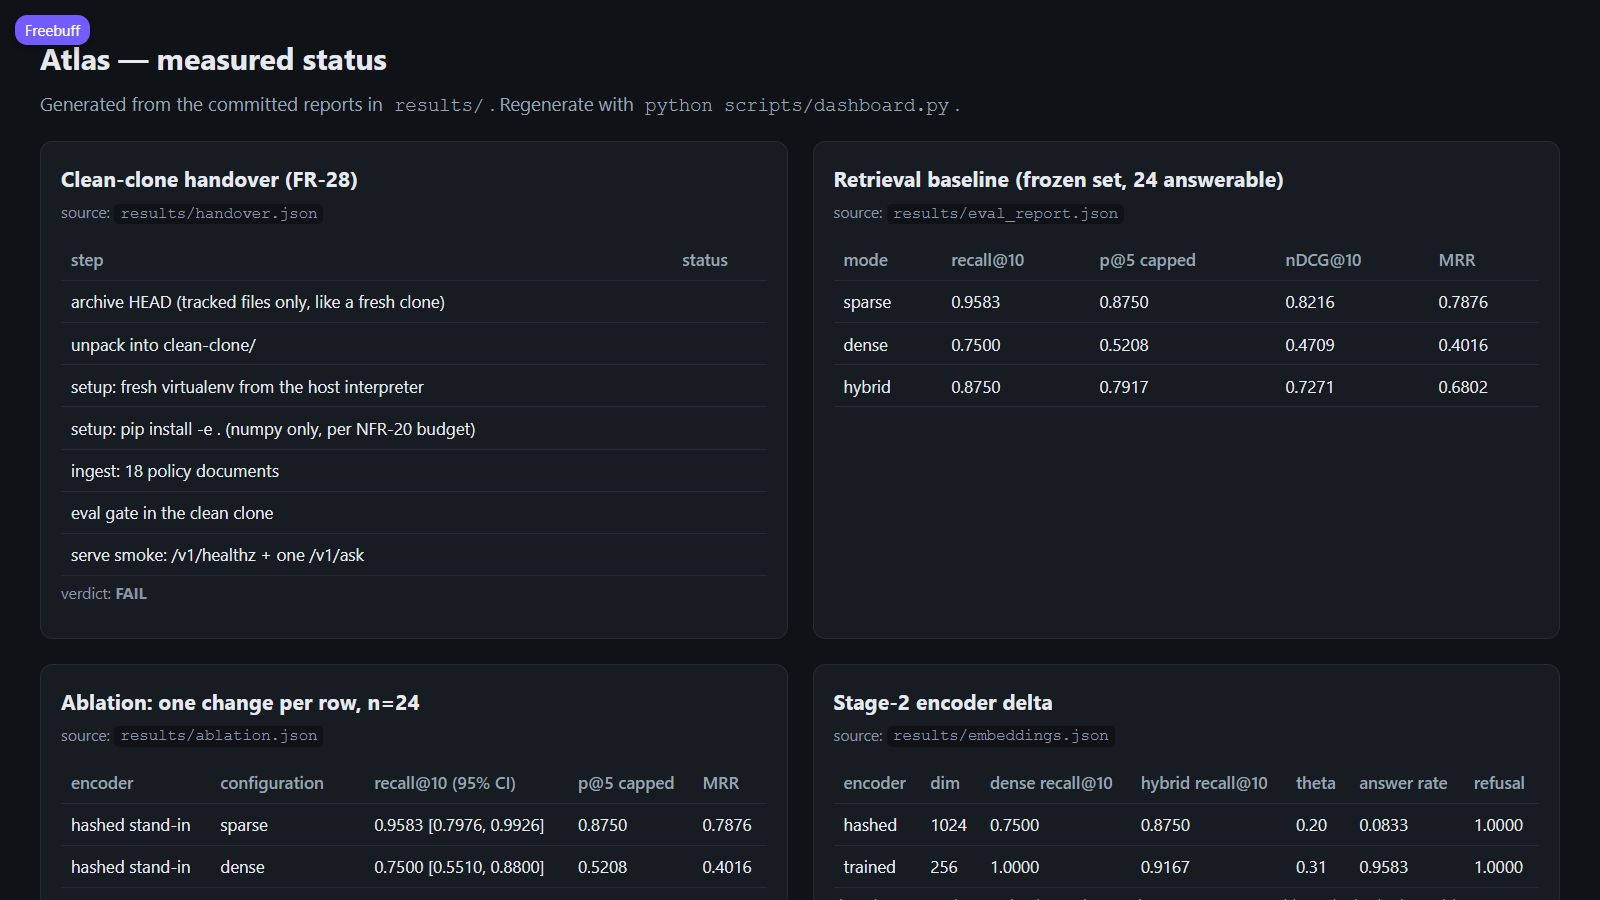
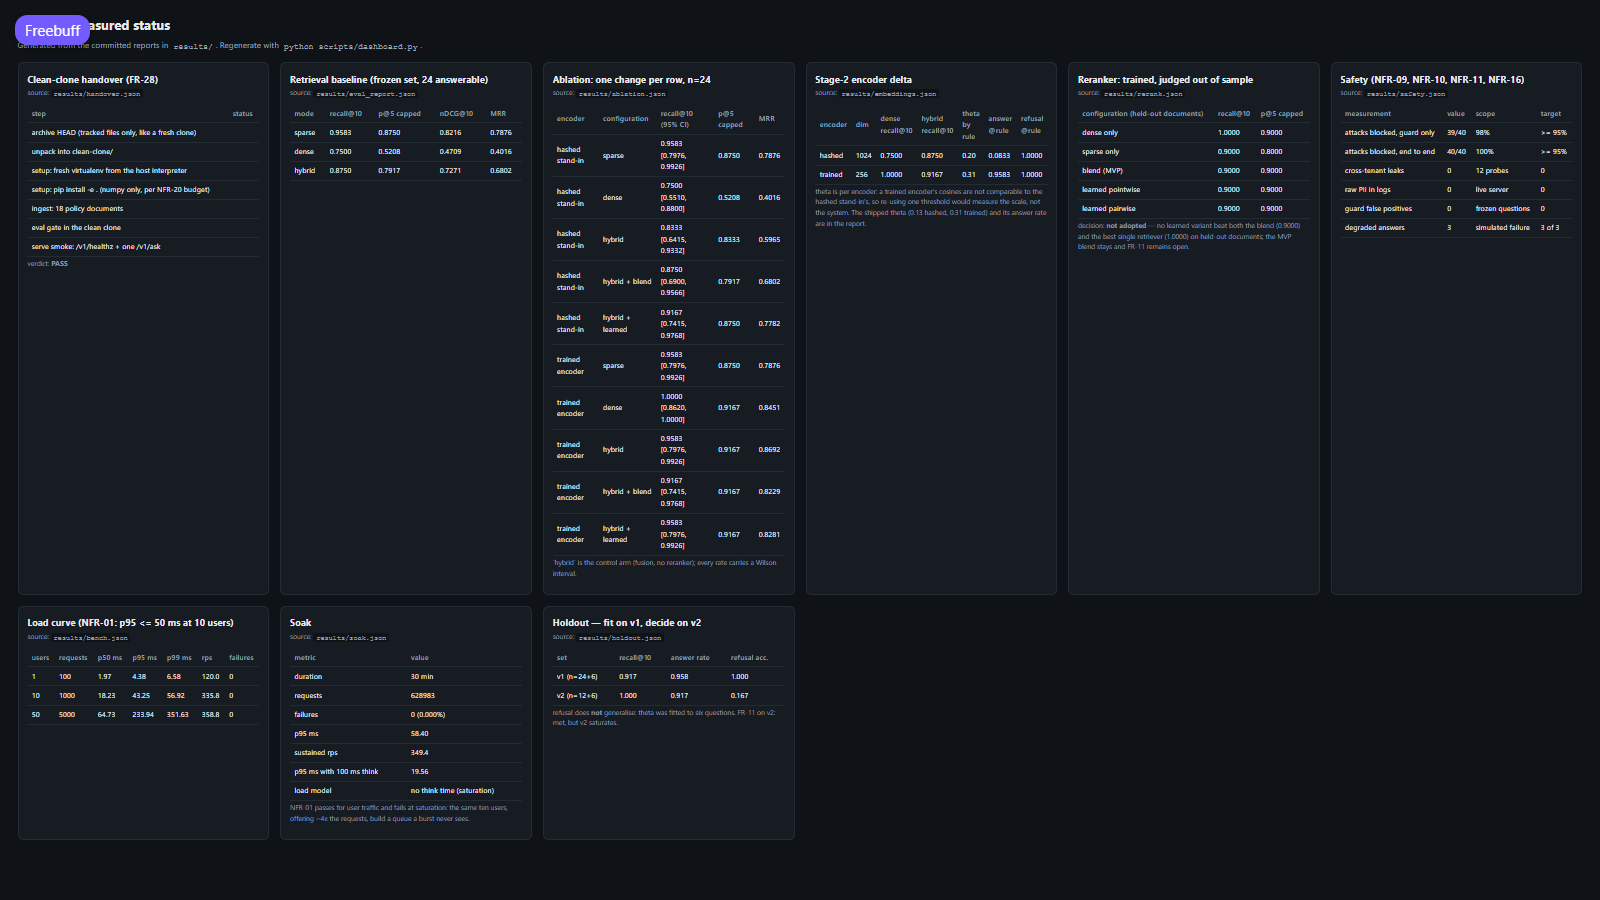
M11 · FR-28 · the two receipts that quote a commit now quote this tree
The clean-clone proof was last run three commits back, and the dashboard screenshot was taken
before the holdout panel existed - both would have described a repository that is no longer HEAD.
Re-running the proof reproduces recall@10 0.8750 and refusal 1.0000 in a fresh venv (PASS), and
the screenshot now shows the failing refusal number beside the passing ones.

The encoder panel also stops calling the by-rule theta "theta": it prints the theta the rule
chose, which is 0.20 for the hashed stand-in and not the 0.13 that ships, and a reader comparing
the dashboard with README would have seen two answer rates for one encoder.

🤖 Generated with Codebuff

diff --git a/dashboard.html b/dashboard.html
@@ -23,6 +23,6 @@
   <p class="sub">Generated from the committed reports in <code>results/</code>.
   Regenerate with <code>python scripts/dashboard.py</code>.</p>
 </header>
-<main><section><h2>Clean-clone handover (FR-28)</h2><p class='src'>source: <code>results/handover.json</code></p><table><thead><tr><th>step</th><th>status</th></tr></thead><tbody><tr><td>archive HEAD (tracked files only, like a fresh clone)</td><td></td></tr><tr><td>unpack into clean-clone/</td><td></td></tr><tr><td>setup: fresh virtualenv from the host interpreter</td><td></td></tr><tr><td>setup: pip install -e . (numpy only, per NFR-20 budget)</td><td></td></tr><tr><td>ingest: 18 policy documents</td><td></td></tr><tr><td>eval gate in the clean clone</td><td></td></tr><tr><td>serve smoke: /v1/healthz + one /v1/ask</td><td></td></tr></tbody></table><p class='note'>verdict: <strong>PASS</strong></p></section><section><h2>Retrieval baseline (frozen set, 24 answerable)</h2><p class='src'>source: <code>results/eval_report.json</code></p><table><thead><tr><th>mode</th><th>recall@10</th><th>p@5 capped</th><th>nDCG@10</th><th>MRR</th></tr></thead><tbody><tr><td>sparse</td><td>0.9583</td><td>0.8750</td><td>0.8216</td><td>0.7876</td></tr><tr><td>dense</td><td>0.7500</td><td>0.5208</td><td>0.4709</td><td>0.4016</td></tr><tr><td>hybrid</td><td>0.8750</td><td>0.7917</td><td>0.7271</td><td>0.6802</td></tr></tbody></table></section><section><h2>Ablation: one change per row, n=24</h2><p class='src'>source: <code>results/ablation.json</code></p><table><thead><tr><th>encoder</th><th>configuration</th><th>recall@10 (95% CI)</th><th>p@5 capped</th><th>MRR</th></tr></thead><tbody><tr><td>hashed stand-in</td><td>sparse</td><td>0.9583 [0.7976, 0.9926]</td><td>0.8750</td><td>0.7876</td></tr><tr><td>hashed stand-in</td><td>dense</td><td>0.7500 [0.5510, 0.8800]</td><td>0.5208</td><td>0.4016</td></tr><tr><td>hashed stand-in</td><td>hybrid</td><td>0.8333 [0.6415, 0.9332]</td><td>0.8333</td><td>0.5965</td></tr><tr><td>hashed stand-in</td><td>hybrid + blend</td><td>0.8750 [0.6900, 0.9566]</td><td>0.7917</td><td>0.6802</td></tr><tr><td>hashed stand-in</td><td>hybrid + learned</td><td>0.9167 [0.7415, 0.9768]</td><td>0.8750</td><td>0.7782</td></tr><tr><td>trained encoder</td><td>sparse</td><td>0.9583 [0.7976, 0.9926]</td><td>0.8750</td><td>0.7876</td></tr><tr><td>trained encoder</td><td>dense</td><td>1.0000 [0.8620, 1.0000]</td><td>0.9167</td><td>0.8451</td></tr><tr><td>trained encoder</td><td>hybrid</td><td>0.9583 [0.7976, 0.9926]</td><td>0.9167</td><td>0.8692</td></tr><tr><td>trained encoder</td><td>hybrid + blend</td><td>0.9167 [0.7415, 0.9768]</td><td>0.9167</td><td>0.8229</td></tr><tr><td>trained encoder</td><td>hybrid + learned</td><td>0.9583 [0.7976, 0.9926]</td><td>0.9167</td><td>0.8281</td></tr></tbody></table><p class='note'>`hybrid` is the control arm (fusion, no reranker); every rate carries a Wilson interval.</p></section><section><h2>Stage-2 encoder delta</h2><p class='src'>source: <code>results/embeddings.json</code></p><table><thead><tr><th>encoder</th><th>dim</th><th>dense recall@10</th><th>hybrid recall@10</th><th>theta</th><th>answer rate</th><th>refusal</th></tr></thead><tbody><tr><td>hashed</td><td>1024</td><td>0.7500</td><td>0.8750</td><td>0.20</td><td>0.0833</td><td>1.0000</td></tr><tr><td>trained</td><td>256</td><td>1.0000</td><td>0.9167</td><td>0.31</td><td>0.9583</td><td>1.0000</td></tr></tbody></table><p class='note'>theta is per encoder: a trained encoder's cosines are not comparable to the hashed stand-in's, so re-using one threshold would measure the scale, not the system.</p></section><section><h2>Reranker: trained, judged out of sample</h2><p class='src'>source: <code>results/rerank.json</code></p><table><thead><tr><th>configuration (held-out documents)</th><th>recall@10</th><th>p@5 capped</th></tr></thead><tbody><tr><td>dense only</td><td>1.0000</td><td>0.9000</td></tr><tr><td>sparse only</td><td>0.9000</td><td>0.8000</td></tr><tr><td>blend (MVP)</td><td>0.9000</td><td>0.9000</td></tr><tr><td>learned pointwise</td><td>0.9000</td><td>0.9000</td></tr><tr><td>learned pairwise</td><td>0.9000</td><td>0.9000</td></tr></tbody></table><p class='note'>decision: <strong>not adopted</strong> — no learned variant beat both the blend (0.9000) and the best single retriever (1.0000) on held-out documents; the MVP blend stays and FR-11 remains open.</p></section><section><h2>Safety (NFR-09, NFR-10, NFR-11, NFR-16)</h2><p class='src'>source: <code>results/safety.json</code></p><table><thead><tr><th>measurement</th><th>value</th><th>scope</th><th>target</th></tr></thead><tbody><tr><td>attacks blocked, guard only</td><td>39/40</td><td>98%</td><td>>= 95%</td></tr><tr><td>attacks blocked, end to end</td><td>40/40</td><td>100%</td><td>>= 95%</td></tr><tr><td>cross-tenant leaks</td><td>0</td><td>12 probes</td><td>0</td></tr><tr><td>raw PII in logs</td><td>0</td><td>live server</td><td>0</td></tr><tr><td>guard false positives</td><td>0</td><td>frozen questions</td><td>0</td></tr><tr><td>degraded answers</td><td>3</td><td>simulated failure</td><td>3 of 3</td></tr></tbody></table></section><section><h2>Load curve (NFR-01: p95 <= 50 ms at 10 users)</h2><p class='src'>source: <code>results/bench.json</code></p><table><thead><tr><th>users</th><th>requests</th><th>p50 ms</th><th>p95 ms</th><th>p99 ms</th><th>rps</th><th>failures</th></tr></thead><tbody><tr><td>1</td><td>100</td><td>1.97</td><td>4.38</td><td>6.58</td><td>120.0</td><td>0</td></tr><tr><td>10</td><td>1000</td><td>18.23</td><td>43.25</td><td>56.92</td><td>335.8</td><td>0</td></tr><tr><td>50</td><td>5000</td><td>64.73</td><td>233.94</td><td>351.63</td><td>358.8</td><td>0</td></tr></tbody></table></section><section><h2>Soak</h2><p class='src'>source: <code>results/soak.json</code></p><table><thead><tr><th>metric</th><th>value</th></tr></thead><tbody><tr><td>duration</td><td>30 min</td></tr><tr><td>requests</td><td>628983</td></tr><tr><td>failures</td><td>0 (0.000%)</td></tr><tr><td>p95 ms</td><td>58.40</td></tr><tr><td>sustained rps</td><td>349.4</td></tr><tr><td>p95 ms with 100 ms think</td><td>19.56</td></tr><tr><td>load model</td><td>no think time (saturation)</td></tr></tbody></table><p class='note'>NFR-01 passes for user traffic and fails at saturation: the same ten users,
+<main><section><h2>Clean-clone handover (FR-28)</h2><p class='src'>source: <code>results/handover.json</code></p><table><thead><tr><th>step</th><th>status</th></tr></thead><tbody><tr><td>archive HEAD (tracked files only, like a fresh clone)</td><td></td></tr><tr><td>unpack into clean-clone/</td><td></td></tr><tr><td>setup: fresh virtualenv from the host interpreter</td><td></td></tr><tr><td>setup: pip install -e . (numpy only, per NFR-20 budget)</td><td></td></tr><tr><td>ingest: 18 policy documents</td><td></td></tr><tr><td>eval gate in the clean clone</td><td></td></tr><tr><td>serve smoke: /v1/healthz + one /v1/ask</td><td></td></tr></tbody></table><p class='note'>verdict: <strong>PASS</strong></p></section><section><h2>Retrieval baseline (frozen set, 24 answerable)</h2><p class='src'>source: <code>results/eval_report.json</code></p><table><thead><tr><th>mode</th><th>recall@10</th><th>p@5 capped</th><th>nDCG@10</th><th>MRR</th></tr></thead><tbody><tr><td>sparse</td><td>0.9583</td><td>0.8750</td><td>0.8216</td><td>0.7876</td></tr><tr><td>dense</td><td>0.7500</td><td>0.5208</td><td>0.4709</td><td>0.4016</td></tr><tr><td>hybrid</td><td>0.8750</td><td>0.7917</td><td>0.7271</td><td>0.6802</td></tr></tbody></table></section><section><h2>Ablation: one change per row, n=24</h2><p class='src'>source: <code>results/ablation.json</code></p><table><thead><tr><th>encoder</th><th>configuration</th><th>recall@10 (95% CI)</th><th>p@5 capped</th><th>MRR</th></tr></thead><tbody><tr><td>hashed stand-in</td><td>sparse</td><td>0.9583 [0.7976, 0.9926]</td><td>0.8750</td><td>0.7876</td></tr><tr><td>hashed stand-in</td><td>dense</td><td>0.7500 [0.5510, 0.8800]</td><td>0.5208</td><td>0.4016</td></tr><tr><td>hashed stand-in</td><td>hybrid</td><td>0.8333 [0.6415, 0.9332]</td><td>0.8333</td><td>0.5965</td></tr><tr><td>hashed stand-in</td><td>hybrid + blend</td><td>0.8750 [0.6900, 0.9566]</td><td>0.7917</td><td>0.6802</td></tr><tr><td>hashed stand-in</td><td>hybrid + learned</td><td>0.9167 [0.7415, 0.9768]</td><td>0.8750</td><td>0.7782</td></tr><tr><td>trained encoder</td><td>sparse</td><td>0.9583 [0.7976, 0.9926]</td><td>0.8750</td><td>0.7876</td></tr><tr><td>trained encoder</td><td>dense</td><td>1.0000 [0.8620, 1.0000]</td><td>0.9167</td><td>0.8451</td></tr><tr><td>trained encoder</td><td>hybrid</td><td>0.9583 [0.7976, 0.9926]</td><td>0.9167</td><td>0.8692</td></tr><tr><td>trained encoder</td><td>hybrid + blend</td><td>0.9167 [0.7415, 0.9768]</td><td>0.9167</td><td>0.8229</td></tr><tr><td>trained encoder</td><td>hybrid + learned</td><td>0.9583 [0.7976, 0.9926]</td><td>0.9167</td><td>0.8281</td></tr></tbody></table><p class='note'>`hybrid` is the control arm (fusion, no reranker); every rate carries a Wilson interval.</p></section><section><h2>Stage-2 encoder delta</h2><p class='src'>source: <code>results/embeddings.json</code></p><table><thead><tr><th>encoder</th><th>dim</th><th>dense recall@10</th><th>hybrid recall@10</th><th>theta by rule</th><th>answer @rule</th><th>refusal @rule</th></tr></thead><tbody><tr><td>hashed</td><td>1024</td><td>0.7500</td><td>0.8750</td><td>0.20</td><td>0.0833</td><td>1.0000</td></tr><tr><td>trained</td><td>256</td><td>1.0000</td><td>0.9167</td><td>0.31</td><td>0.9583</td><td>1.0000</td></tr></tbody></table><p class='note'>theta is per encoder: a trained encoder's cosines are not comparable to the hashed stand-in's, so re-using one threshold would measure the scale, not the system. The shipped theta (0.13 hashed, 0.31 trained) and its answer rate are in the report.</p></section><section><h2>Reranker: trained, judged out of sample</h2><p class='src'>source: <code>results/rerank.json</code></p><table><thead><tr><th>configuration (held-out documents)</th><th>recall@10</th><th>p@5 capped</th></tr></thead><tbody><tr><td>dense only</td><td>1.0000</td><td>0.9000</td></tr><tr><td>sparse only</td><td>0.9000</td><td>0.8000</td></tr><tr><td>blend (MVP)</td><td>0.9000</td><td>0.9000</td></tr><tr><td>learned pointwise</td><td>0.9000</td><td>0.9000</td></tr><tr><td>learned pairwise</td><td>0.9000</td><td>0.9000</td></tr></tbody></table><p class='note'>decision: <strong>not adopted</strong> — no learned variant beat both the blend (0.9000) and the best single retriever (1.0000) on held-out documents; the MVP blend stays and FR-11 remains open.</p></section><section><h2>Safety (NFR-09, NFR-10, NFR-11, NFR-16)</h2><p class='src'>source: <code>results/safety.json</code></p><table><thead><tr><th>measurement</th><th>value</th><th>scope</th><th>target</th></tr></thead><tbody><tr><td>attacks blocked, guard only</td><td>39/40</td><td>98%</td><td>>= 95%</td></tr><tr><td>attacks blocked, end to end</td><td>40/40</td><td>100%</td><td>>= 95%</td></tr><tr><td>cross-tenant leaks</td><td>0</td><td>12 probes</td><td>0</td></tr><tr><td>raw PII in logs</td><td>0</td><td>live server</td><td>0</td></tr><tr><td>guard false positives</td><td>0</td><td>frozen questions</td><td>0</td></tr><tr><td>degraded answers</td><td>3</td><td>simulated failure</td><td>3 of 3</td></tr></tbody></table></section><section><h2>Load curve (NFR-01: p95 <= 50 ms at 10 users)</h2><p class='src'>source: <code>results/bench.json</code></p><table><thead><tr><th>users</th><th>requests</th><th>p50 ms</th><th>p95 ms</th><th>p99 ms</th><th>rps</th><th>failures</th></tr></thead><tbody><tr><td>1</td><td>100</td><td>1.97</td><td>4.38</td><td>6.58</td><td>120.0</td><td>0</td></tr><tr><td>10</td><td>1000</td><td>18.23</td><td>43.25</td><td>56.92</td><td>335.8</td><td>0</td></tr><tr><td>50</td><td>5000</td><td>64.73</td><td>233.94</td><td>351.63</td><td>358.8</td><td>0</td></tr></tbody></table></section><section><h2>Soak</h2><p class='src'>source: <code>results/soak.json</code></p><table><thead><tr><th>metric</th><th>value</th></tr></thead><tbody><tr><td>duration</td><td>30 min</td></tr><tr><td>requests</td><td>628983</td></tr><tr><td>failures</td><td>0 (0.000%)</td></tr><tr><td>p95 ms</td><td>58.40</td></tr><tr><td>sustained rps</td><td>349.4</td></tr><tr><td>p95 ms with 100 ms think</td><td>19.56</td></tr><tr><td>load model</td><td>no think time (saturation)</td></tr></tbody></table><p class='note'>NFR-01 passes for user traffic and fails at saturation: the same ten users,
         offering ~4x the requests, build a queue a burst never sees.</p></section><section><h2>Holdout — fit on v1, decide on v2</h2><p class='src'>source: <code>results/holdout.json</code></p><table><thead><tr><th>set</th><th>recall@10</th><th>answer rate</th><th>refusal acc.</th></tr></thead><tbody><tr><td>v1 (n=24+6)</td><td>0.917</td><td>0.958</td><td>1.000</td></tr><tr><td>v2 (n=12+6)</td><td>1.000</td><td>0.917</td><td>0.167</td></tr></tbody></table><p class='note'>refusal does <strong>not</strong> generalise: theta was fitted to six questions. FR-11 on v2: met, but v2 saturates.</p></section></main>
 </body></html>

diff --git a/scripts/dashboard.py b/scripts/dashboard.py
@@ -84,12 +84,13 @@ def embeddings_panel() -> str:
             ]
         )
     body = table(
-        ["encoder", "dim", "dense recall@10", "hybrid recall@10", "theta", "answer rate",
-         "refusal"], rows
+        ["encoder", "dim", "dense recall@10", "hybrid recall@10", "theta by rule",
+         "answer @rule", "refusal @rule"], rows
     )
     note = (
         "theta is per encoder: a trained encoder's cosines are not comparable to the hashed "
-        "stand-in's, so re-using one threshold would measure the scale, not the system."
+        "stand-in's, so re-using one threshold would measure the scale, not the system. "
+        "The shipped theta (0.13 hashed, 0.31 trained) and its answer rate are in the report."
     )
     return panel("Stage-2 encoder delta", "embeddings.json", body, note)
 

diff --git a/results/handover.md b/results/handover.md
@@ -1,15 +1,15 @@
 # Handover proof (M6, FR-28): clean clone -> same commands -> same numbers
 
-HEAD `efb84bf7067d` · generator `scripts/repro_clone.py`
+HEAD `43b2eb1cd6af` · generator `scripts/repro_clone.py`
 
 | step | exit | seconds | tail |
 |---|---|---|---|
-| archive HEAD (tracked files only, like a fresh clone) | 0 | 1.64 | ok |
-| unpack into clean-clone/ | 0 | 0.17 | ok |
-| setup: fresh virtualenv from the host interpreter | 0 | 14.68 | ok |
-| setup: pip install -e . (numpy only, per NFR-20 budget) | 0 | 175.06 | ok |
-| ingest: 18 policy documents | 0 | 2.18 | ingested 34 new chunks from 18 files into tenant 'campus' |
-| eval gate in the clean clone | 0 | 0.74 | gate: refusal accuracy 1.0000 (minimum 0.9) / gate ok |
+| archive HEAD (tracked files only, like a fresh clone) | 0 | 1.42 | ok |
+| unpack into clean-clone/ | 0 | 0.13 | ok |
+| setup: fresh virtualenv from the host interpreter | 0 | 13.32 | ok |
+| setup: pip install -e . (numpy only, per NFR-20 budget) | 0 | 36.75 | ok |
+| ingest: 18 policy documents | 0 | 2.25 | ingested 34 new chunks from 18 files into tenant 'campus' |
+| eval gate in the clean clone | 0 | 0.8 | gate: refusal accuracy 1.0000 (minimum 0.9) / gate ok |
 | serve smoke: /v1/healthz + one /v1/ask | 0 | - | ok |
 
 Fresh-clone eval vs committed baseline: recall@10 **0.8750** (expected 0.8750), refusal accuracy **1.0000** (expected 1.0000) — verdict: **PASS**
